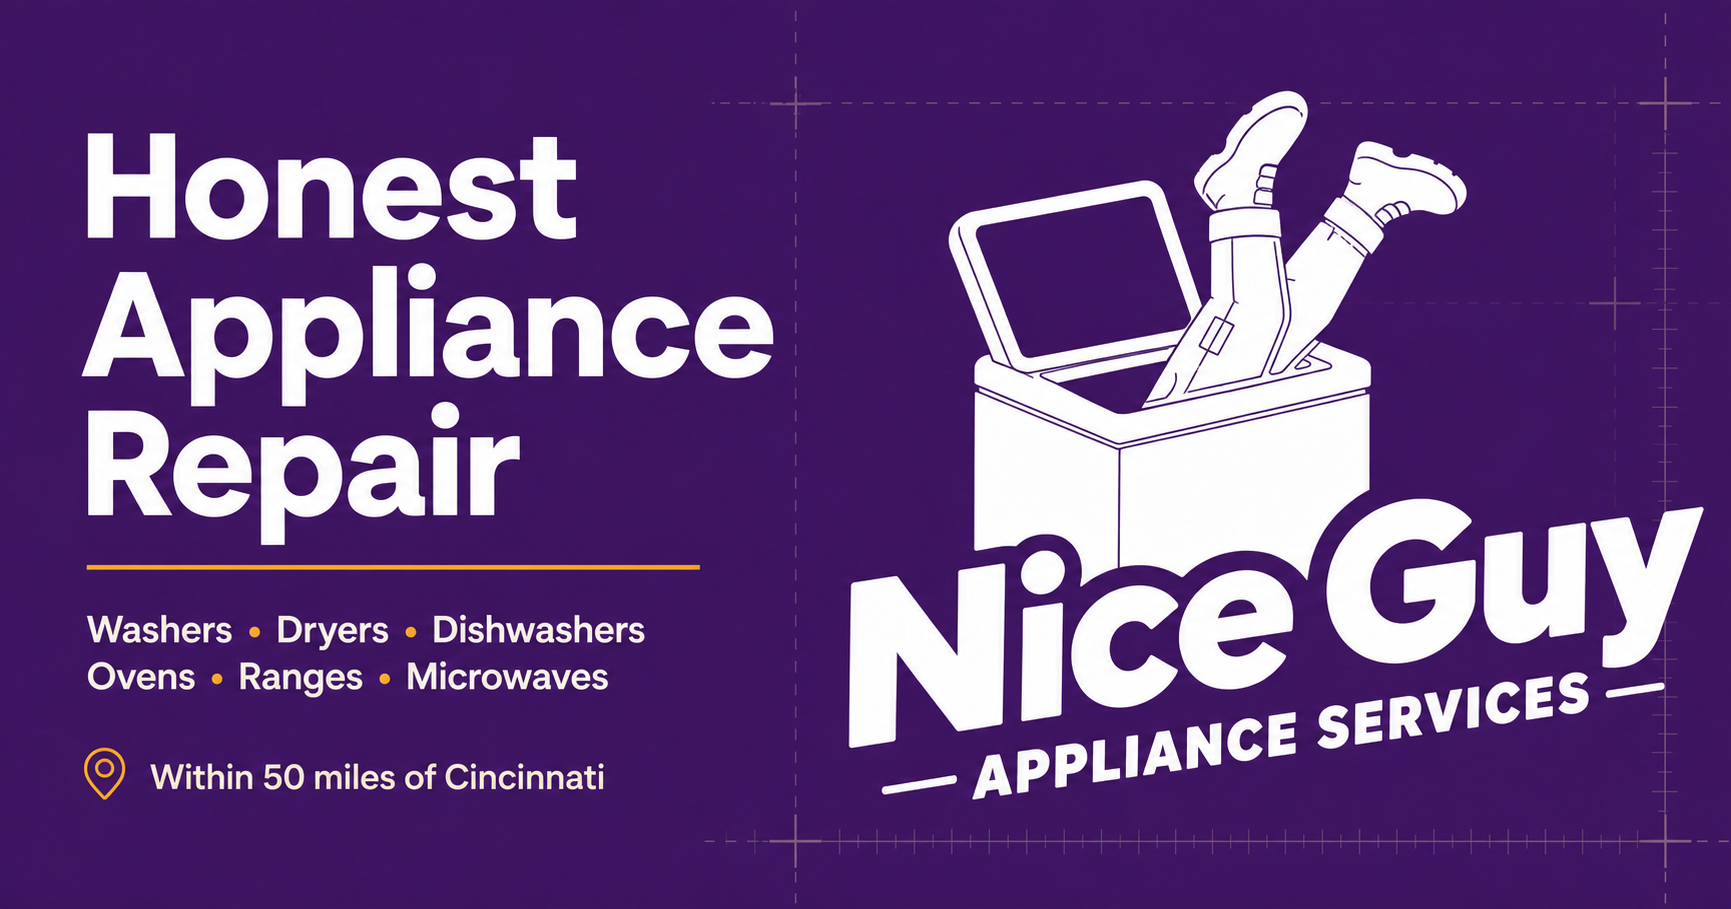
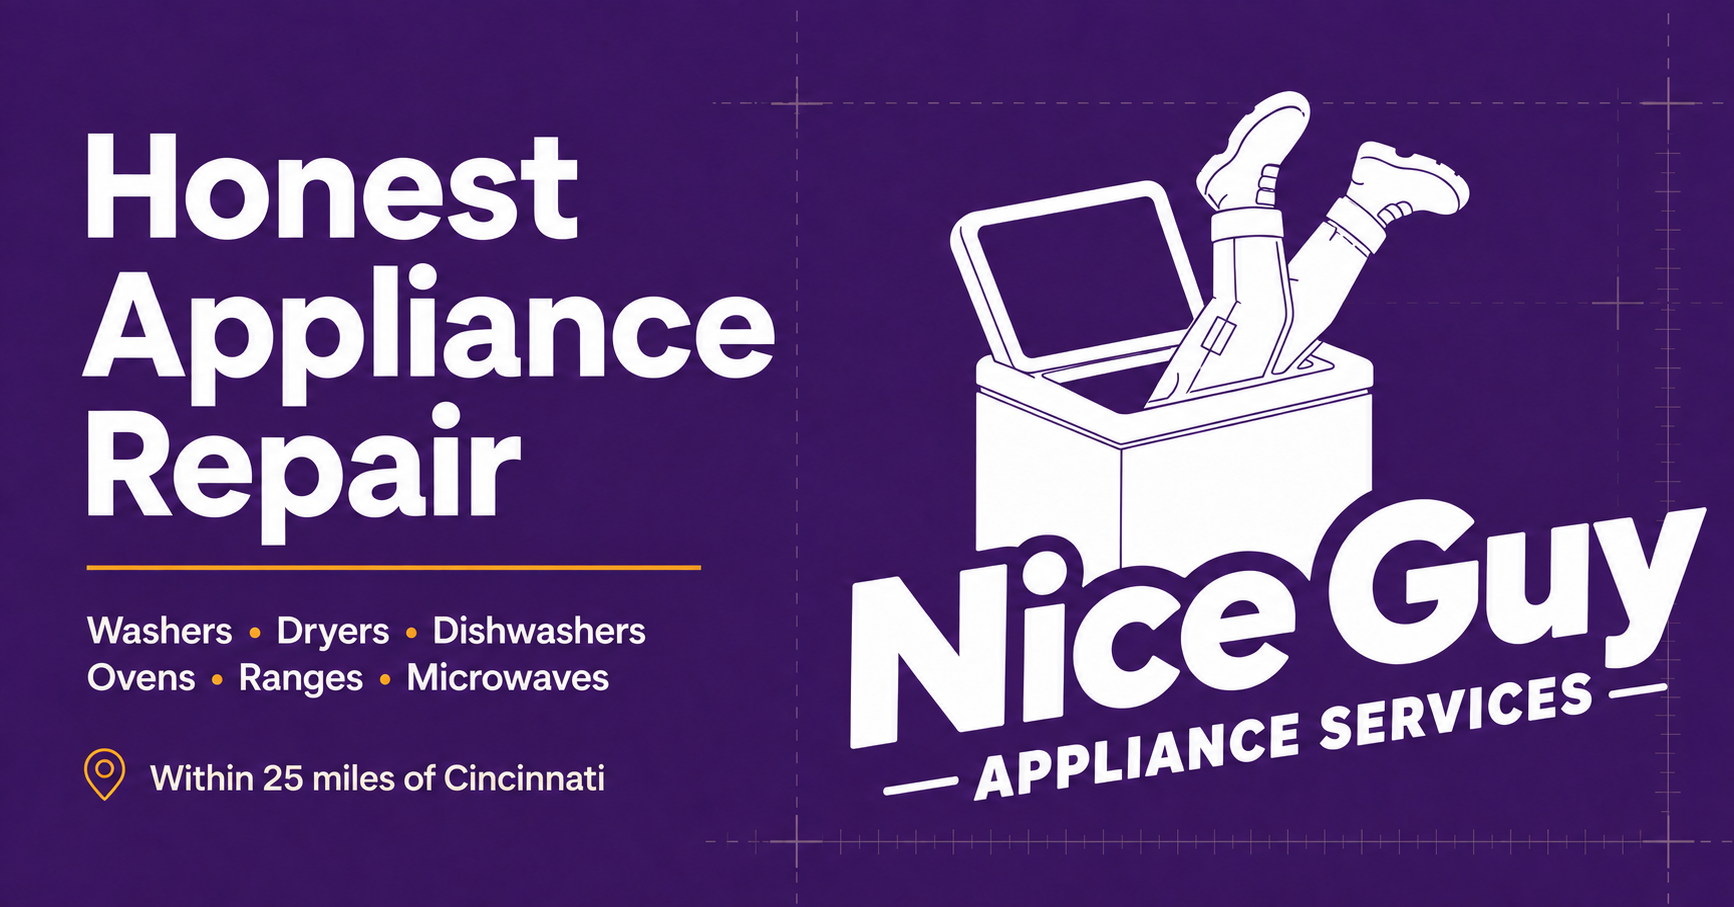
Update business contact and service radius

diff --git a/app/page.tsx b/app/page.tsx
@@ -8,7 +8,7 @@ import { businessConfig, faqItems, serviceRoutes } from "@/src/config/business";
 export const metadata: Metadata = {
   title: "Honest Appliance Repair in Cincinnati",
   description:
-    "Residential washer, dryer, dishwasher, oven, range, and microwave repair within 50 miles of Cincinnati, with clear pricing and parts at cost whenever practical.",
+    "Residential washer, dryer, dishwasher, oven, range, and microwave repair within 25 miles of Cincinnati, with clear pricing and parts at cost whenever practical.",
   alternates: { canonical: "/" },
 };
 
@@ -51,7 +51,7 @@ export default function Home() {
           <h1>Honest Appliance Repair Without Inflated Parts Markup</h1>
           <p className="home-hero__lead">
             In-home repair for washers, dryers, dishwashers, ovens, ranges, and
-            microwaves within 50 miles of Cincinnati city center.
+            microwaves within 25 miles of Cincinnati city center.
           </p>
           <ActionLinks context="home_hero" />
           <ul className="hero-facts" aria-label="Service highlights">
@@ -74,7 +74,7 @@ export default function Home() {
           <div>
             <strong>Service area</strong>
             <span>
-              Residential addresses within a 50-mile radius of Cincinnati
+              Residential addresses within a 25-mile radius of Cincinnati
             </span>
           </div>
           <div>
@@ -100,7 +100,7 @@ export default function Home() {
             {trustItems.map(([title, copy]) => (
               <article className="trust-item" key={title}>
                 <span className="trust-item__mark" aria-hidden="true">
-                  +
+                  &bull;
                 </span>
                 <h3>{title}</h3>
                 <p>{copy}</p>
@@ -223,7 +223,7 @@ export default function Home() {
       <section className="section section--white">
         <div className="container area-callout">
           <div>
-            <p className="eyebrow">50-mile Cincinnati service radius</p>
+            <p className="eyebrow">25-mile Cincinnati service radius</p>
             <h2>See whether your address is likely in range</h2>
             <p>
               The ZIP check is an initial screening. The complete residential
@@ -264,7 +264,7 @@ export default function Home() {
             <p className="eyebrow eyebrow--light">Ready to request service?</p>
             <h2>Tell us what the appliance is doing.</h2>
             <p>
-              For supported residential appliances within 50 miles of
+              For supported residential appliances within 25 miles of
               Cincinnati.
             </p>
           </div>

diff --git a/app/service-area/page.tsx b/app/service-area/page.tsx
@@ -5,7 +5,7 @@ import { ServiceAreaChecker } from "@/components/service-area-checker";
 export const metadata: Metadata = {
   title: "Appliance Repair Service Area",
   description:
-    "Check whether a residential address appears to be within the 50-mile Nice Guy Appliance Services radius from Cincinnati city center.",
+    "Check whether a residential address appears to be within the 25-mile Nice Guy Appliance Services radius from Cincinnati city center.",
   alternates: { canonical: "/service-area" },
 };
 
@@ -13,9 +13,9 @@ export default function ServiceAreaPage() {
   return (
     <main id="main-content">
       <PageHero
-        eyebrow="50-mile Cincinnati radius"
+        eyebrow="25-mile Cincinnati radius"
         title="Check Your Service Area"
-        intro="Service is offered to qualifying residential addresses within 50 miles of Cincinnati city center. A ZIP result is an initial screen, not a promise of service."
+        intro="Service is offered to qualifying residential addresses within 25 miles of Cincinnati city center. A ZIP result is an initial screen, not a promise of service."
       />
       <section className="section section--mist">
         <div className="container">
@@ -27,7 +27,7 @@ export default function ServiceAreaPage() {
           <h2>How the radius check works</h2>
           <p>
             The checker uses the ZIP code as an initial indicator. ZIP areas are
-            irregular and can cross the 50-mile boundary, so the complete street
+            irregular and can cross the 25-mile boundary, so the complete street
             address is reviewed before an appointment is accepted.
           </p>
           <h2>Borderline or uncertain addresses</h2>
@@ -39,7 +39,7 @@ export default function ServiceAreaPage() {
           <h2>What the service area includes</h2>
           <p>
             Residential service locations only. This page does not create
-            city-specific guarantees or expand the stated 50-mile radius.
+            city-specific guarantees or expand the stated 25-mile radius.
           </p>
         </div>
       </section>

diff --git a/app/layout.tsx b/app/layout.tsx
@@ -14,7 +14,7 @@ export const metadata: Metadata = {
     template: "%s | Nice Guy Appliance Services",
   },
   description:
-    "Independent residential appliance repair for washers, dryers, dishwashers, ovens, ranges, and microwaves within 50 miles of Cincinnati.",
+    "Independent residential appliance repair for washers, dryers, dishwashers, ovens, ranges, and microwaves within 25 miles of Cincinnati.",
   applicationName: businessConfig.name,
   alternates: { canonical: "/" },
   openGraph: {
@@ -24,13 +24,13 @@ export const metadata: Metadata = {
     url: businessConfig.canonicalUrl,
     title: "Nice Guy Appliance Services",
     description:
-      "Honest residential appliance repair within 50 miles of Cincinnati.",
+      "Honest residential appliance repair within 25 miles of Cincinnati.",
     images: [
       {
         url: `${businessConfig.canonicalUrl}/og.png`,
-        width: 1731,
-        height: 909,
-        alt: "Nice Guy Appliance Services - honest appliance repair within 50 miles of Cincinnati",
+        width: 1734,
+        height: 907,
+        alt: "Nice Guy Appliance Services - honest appliance repair within 25 miles of Cincinnati",
       },
     ],
   },
@@ -38,7 +38,7 @@ export const metadata: Metadata = {
     card: "summary_large_image",
     title: "Nice Guy Appliance Services",
     description:
-      "Honest residential appliance repair within 50 miles of Cincinnati.",
+      "Honest residential appliance repair within 25 miles of Cincinnati.",
     images: [`${businessConfig.canonicalUrl}/og.png`],
   },
   icons: {
@@ -62,13 +62,13 @@ const localBusinessSchema = {
   image: `${businessConfig.canonicalUrl}${businessConfig.brand.logo}`,
   areaServed: {
     "@type": "GeoCircle",
-    name: "50 miles from Cincinnati city center",
+    name: "25 miles from Cincinnati city center",
     geoMidpoint: {
       "@type": "GeoCoordinates",
       latitude: 39.1031,
       longitude: -84.512,
     },
-    geoRadius: "80467.2",
+    geoRadius: "40233.6",
   },
   serviceType: [
     "Washer repair",

diff --git a/tests/e2e/site.spec.ts b/tests/e2e/site.spec.ts
@@ -34,8 +34,25 @@ test("desktop navigation, brand, homepage content, and pricing are accurate", as
   const serviceCards = await page.locator(".service-card").allTextContents();
   expect(serviceCards.join(" ")).not.toMatch(/refrigerator|HVAC/i);
   await expect(
-    page.locator('a[href="tel:[BUSINESS_PHONE]"]').first(),
+    page.locator('a[href="tel:513-804-7766"]').first(),
   ).toBeAttached();
+  await expect(
+    page.locator('a[href="mailto:ssena@niceuyservices.com"]').first(),
+  ).toBeAttached();
+  await expect(page.locator(".trust-item__mark")).toHaveText([
+    "\u2022",
+    "\u2022",
+    "\u2022",
+    "\u2022",
+  ]);
+  const brandBounds = await page.locator(".brand-link").boundingBox();
+  const logoBounds = await page.locator(".brand-link img").boundingBox();
+  expect(brandBounds).not.toBeNull();
+  expect(logoBounds).not.toBeNull();
+  expect(logoBounds!.y).toBeGreaterThanOrEqual(brandBounds!.y);
+  expect(logoBounds!.y + logoBounds!.height).toBeLessThanOrEqual(
+    brandBounds!.y + brandBounds!.height,
+  );
   await page
     .getByRole("navigation", { name: "Primary navigation" })
     .getByRole("link", { name: "Pricing", exact: true })

diff --git a/src/config/business.ts b/src/config/business.ts
@@ -3,13 +3,13 @@ export const businessConfig = {
   legalName: "Nice Guy Services LLC",
   domain: "niceguyservices.com",
   canonicalUrl: "https://niceguyservices.com",
-  phone: "[BUSINESS_PHONE]",
-  email: "[BUSINESS_EMAIL]",
+  phone: "513-804-7766",
+  email: "ssena@niceuyservices.com",
   addressLabel: "[BUSINESS_ADDRESS_OR_SERVICE_AREA_LABEL]",
   hours: "[BUSINESS_HOURS]",
   serviceArea: {
     centerName: "Cincinnati city center",
-    radiusMiles: 50,
+    radiusMiles: 25,
   },
   pricing: {
     diagnosticFee: 100,
@@ -193,7 +193,7 @@ export const faqItems = [
   ],
   [
     "What areas do you serve?",
-    "Residential addresses that appear to be within 50 miles of Cincinnati city center. Borderline addresses can be reviewed manually.",
+    "Residential addresses that appear to be within 25 miles of Cincinnati city center. Borderline addresses can be reviewed manually.",
   ],
   [
     "What is the diagnostic fee?",

diff --git a/app/services/[slug]/page.tsx b/app/services/[slug]/page.tsx
@@ -23,7 +23,7 @@ export async function generateMetadata({
   if (!service) return {};
   return {
     title: `${service.name} in Cincinnati`,
-    description: `${service.summary} Available for qualifying residential addresses within 50 miles of Cincinnati city center.`,
+    description: `${service.summary} Available for qualifying residential addresses within 25 miles of Cincinnati city center.`,
     alternates: { canonical: `/services/${service.slug}` },
   };
 }
@@ -39,7 +39,7 @@ export default async function ServicePage({ params }: ServicePageProps) {
     name: service.name,
     description: service.summary,
     provider: { "@id": `${businessConfig.canonicalUrl}/#business` },
-    areaServed: "Within 50 miles of Cincinnati city center",
+    areaServed: "Within 25 miles of Cincinnati city center",
     url: `${businessConfig.canonicalUrl}/services/${service.slug}`,
   };
 

diff --git a/app/site.css b/app/site.css
@@ -14,15 +14,17 @@
 }
 .brand-link {
   display: flex;
-  width: 176px;
+  width: 108px;
   height: 74px;
   align-items: center;
   flex: 0 0 auto;
-  overflow: hidden;
+  overflow: visible;
 }
 .brand-link img {
-  width: 154px;
+  width: 96px;
+  max-height: 68px;
   height: auto;
+  object-fit: contain;
 }
 .desktop-nav {
   display: flex;
@@ -578,11 +580,12 @@
     gap: 0.65rem;
   }
   .brand-link {
-    width: 132px;
+    width: 88px;
     height: 68px;
   }
   .brand-link img {
-    width: 126px;
+    width: 80px;
+    max-height: 60px;
   }
   .header-actions {
     display: none;

diff --git a/app/services/page.tsx b/app/services/page.tsx
@@ -6,7 +6,7 @@ import { serviceRoutes } from "@/src/config/business";
 export const metadata: Metadata = {
   title: "Residential Appliance Repair Services",
   description:
-    "Washer, dryer, dishwasher, oven, range, and microwave repair services for residential customers within 50 miles of Cincinnati.",
+    "Washer, dryer, dishwasher, oven, range, and microwave repair services for residential customers within 25 miles of Cincinnati.",
   alternates: { canonical: "/services" },
 };
 

diff --git a/app/schedule-service/page.tsx b/app/schedule-service/page.tsx
@@ -5,7 +5,7 @@ import { PageHero } from "@/components/page-hero";
 export const metadata: Metadata = {
   title: "Schedule Appliance Service",
   description:
-    "Request residential washer, dryer, dishwasher, oven, range, or microwave repair within 50 miles of Cincinnati.",
+    "Request residential washer, dryer, dishwasher, oven, range, or microwave repair within 25 miles of Cincinnati.",
   alternates: { canonical: "/schedule-service" },
 };
 

diff --git a/src/domain/qualification.ts b/src/domain/qualification.ts
@@ -39,7 +39,7 @@ export function assessServiceArea(input: string): ServiceAreaAssessment {
     return {
       status: "likely-inside",
       message:
-        "This ZIP code appears to be within the normal 50-mile service area. The complete address will be confirmed before scheduling.",
+        "This ZIP code appears to be within the normal 25-mile service area. The complete address will be confirmed before scheduling.",
       zip,
     };
   }

diff --git a/app/manifest.ts b/app/manifest.ts
@@ -4,7 +4,7 @@ export default function manifest(): MetadataRoute.Manifest {
   return {
     name: "Nice Guy Appliance Services",
     short_name: "Nice Guy Services",
-    description: "Residential appliance repair within 50 miles of Cincinnati.",
+    description: "Residential appliance repair within 25 miles of Cincinnati.",
     start_url: "/",
     display: "standalone",
     background_color: "#ffffff",

diff --git a/components/site-footer.tsx b/components/site-footer.tsx
@@ -16,7 +16,7 @@ export function SiteFooter() {
             />
           </Link>
           <p>
-            Independent residential appliance repair within 50 miles of
+            Independent residential appliance repair within 25 miles of
             Cincinnati city center.
           </p>
         </div>
